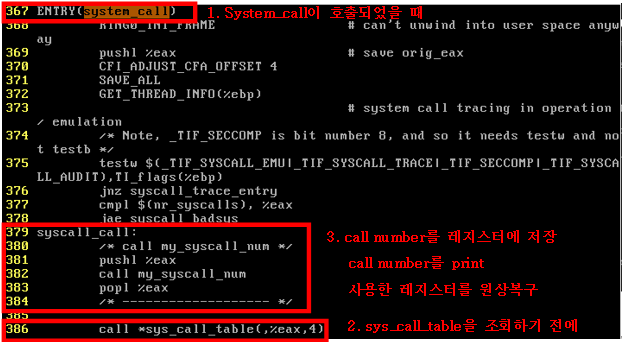
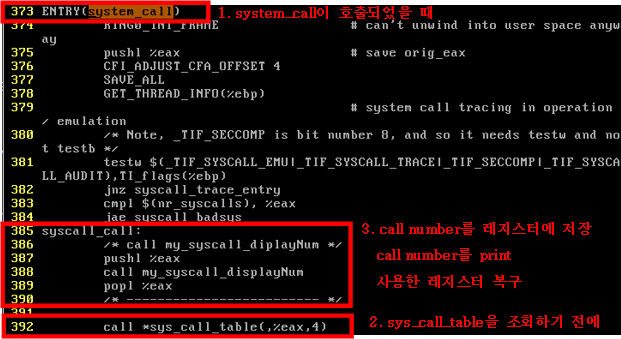
FINISH week4

Changed region(s): [[0.0, 0.0, 1.0, 1.0], [0.153, 0.118, 0.4589, 0.295], [0.5507, 0.1475, 0.7649, 0.177]]

diff --git a/OperatingSystem/HW/week04/README.md b/OperatingSystem/HW/week04/README.md
@@ -3,6 +3,7 @@
 > 우선 Linux 2.6은 0번부터 326까지 총 327개의 system call을 지원한다.
 > 
 > 이는 `arch/x86/kernel/syscall_table_32.S`를 직접 확인해 보면 알 수 있다. 
+>
 > ![Alt text](Image/week04_HW7_1.png)<br>
 > ...
 > ![Alt text](Image/week04_HW7_2.png)<br>
@@ -151,57 +152,64 @@ syscall(4, 1, "hi", 2); // 4 is the system call number for "write" system call
 > ---
 > **Code**
 >
-> 1. `arch/x86/kernel/syscall_table_32.S`에 주어진 system call number를 출력하는 함수명 정의<br>
-> ![Alt text](Image/week04_HW11_1.png)
+> 1. `arch/x86/kernel/syscall_table_32.S`에 주어진 system call number를 출력하는 함수와 출력 여부를 결정하는 함수명 정의<br>
+>   \<my_syscall_displayNum\><br>
+>   ![Alt text](Image/week04_HW11_1.png)<br>
+>   \<my_syscall_setDisplay\><br>
+>   ![Alt text](Image/week04_HW11_2.png)
 >
-> 2. `fs/read_write.c`에 해당 함수 구현<br>
-> ![Alt text](Image/week04_HW11_2.png)
+> 2. `fs/read_write.c`에 해당 함수들 구현<br>
+>   ![Alt text](Image/week04_HW11_6.png)
 >
-> 3. `arch/x86/kernel/entry_32.S` 수정<br>
-> ![Alt text](Image/week04_HW11_3.png)
+> 3. `arch/x86/kernel/entry_32.S` 수정 (in `Entry(system_call)` & `Entry(system_call)`)<br>
+>   \<Entry(system_call)부분\><br>
+>   ![Alt text](Image/week04_HW11_3.png)<br>
+>   \<Entry(ia32_sysenter_target)부분\><br>
+>   ![Alt text](Image/week04_HW11_7.png)
 >
-> 4. Recompile and Reboot<br>
-> ![Alt text](Image/week04_HW10-1_3.png)
+> 4. Recompile and Reboot
 >
 > ---
 > **Result**
 >
 > ![Alt text](Image/week04_HW11_4.png)
 >
-> 위와 같은 코드를 작성한 후,
+> 위와 같은 코드를 작성한 후<br>
+> 마찬가지로 printk로 출력하는 내용을 볼 수 있도록 log level을 바꿔준다. <br>
+> 마지막으로 해당 C프로그램을 실행해 본다.
 >
 > ![Alt text](Image/week04_HW11_5.png)
 > 
-> 마찬가지로 printk로 출력하는 내용을 볼 수 있도록 log level을 바꿔준다.
-> 
-> ![Alt text](Image/week04_HW11_6.png)
-> 
-> 그 결과 `hello`를 출력하기 까지 필요한 system call의 number를 모두 확인할 수 있다.
+> 그 결과 위와 같이 `hello`를 출력하기 까지 필요한 system call의 number를 모두 확인할 수 있다.
 >
 > ---
 > **Explain**
 >
-> 3(sys_read): 파일이나 다른 입력 소스에서 데이터를 읽음<br>
-> 5(sys_open): 파일을 열 때 사용<br>
-> 6(sys_close): 파일 디스크립터를 닫음<br>
-> 33(sys_access): 파일이나 디렉터리에 대한 접근 권한을 확인하는 데 사용<br>
-> 45(sys_brk): 프로세스의 메모리 공간을 동적으로 확장 또는 축소하기 위해 사용<br>
-> 91(sys_munmap): 메모리 매핑을 해제하는 시스템 호출<br>
-> 119(sys_sigreturn): 시그널 핸들러에서 복귀<br>
-> 125(sys_mprotect): 메모리 보호 속성을 변경<br>
-> 192(sys_mmap2): 파일을 메모리에 매핑<br>
-> 197(sys_fstat64): 파일의 메타정보를 가져올 때 사용<br>
-> 243(sys_set_thread_area): 스레드의 관련 정보를 설정<br>
+> - **4(sys_write)** <br>
+>   : 파일이나 소켓에 데이터를 쓰는 시스템 콜 <br>
+>   <u>(user space에서 kernel space로 데이터를 전송하는 역할)</u>
+> - **54(sys_ioctl)** <br>
+>   : 입출력 장치 및 파일 디스크립터에 대한 제어 명령을 수행하는 시스템 콜 <br>
+>    <u>(특정 장치의 속성을 설정하거나 정보를 얻을 때 사용)</u>
+> - **192(sys_mmap2)**<br>
+>   : 파일이나 장치를 메모리에 매핑하는 시스템 콜<br>
+>   <u>(파일을 메모리에 로드하거나 특정 주소 공간을 파일과 연결하는 데 사용)</u>
+> - **197(sys_fstat64)**<br>
+>   : 파일의 메타정보를 가져올 때 사용<br>
+>    <u>(파일 크기, 소유자, 권한 등과 같은 파일의 메타데이터를 반환)</u>
+>
+> *(35번 system call은 우리가 syscall number의 출력 여부를 결정하기 위해서 새롭게 정의해준 system call이었다.)*
 
 ---
 ## HW12. What system calls are being called when you remove a file? Use "system()" function to run a Linux command as below. Explain what each system call is doing. You need to make f1 file before you run it. Also explain for each system call why that system call has been used.
 
 > HW11과 마찬가지로 파일을 만든 후 다음의 코드를 통해 지워 주었다.
+> 
 > ![Alt text](Image/week04_HW12_1.png)
 >
 > ---
 > **Result**
->
+> 
 > ![Alt text](Image/week04_HW12_2.png)
 > <br> ... <br>
 > ![Alt text](Image/week04_HW12_3.png)
